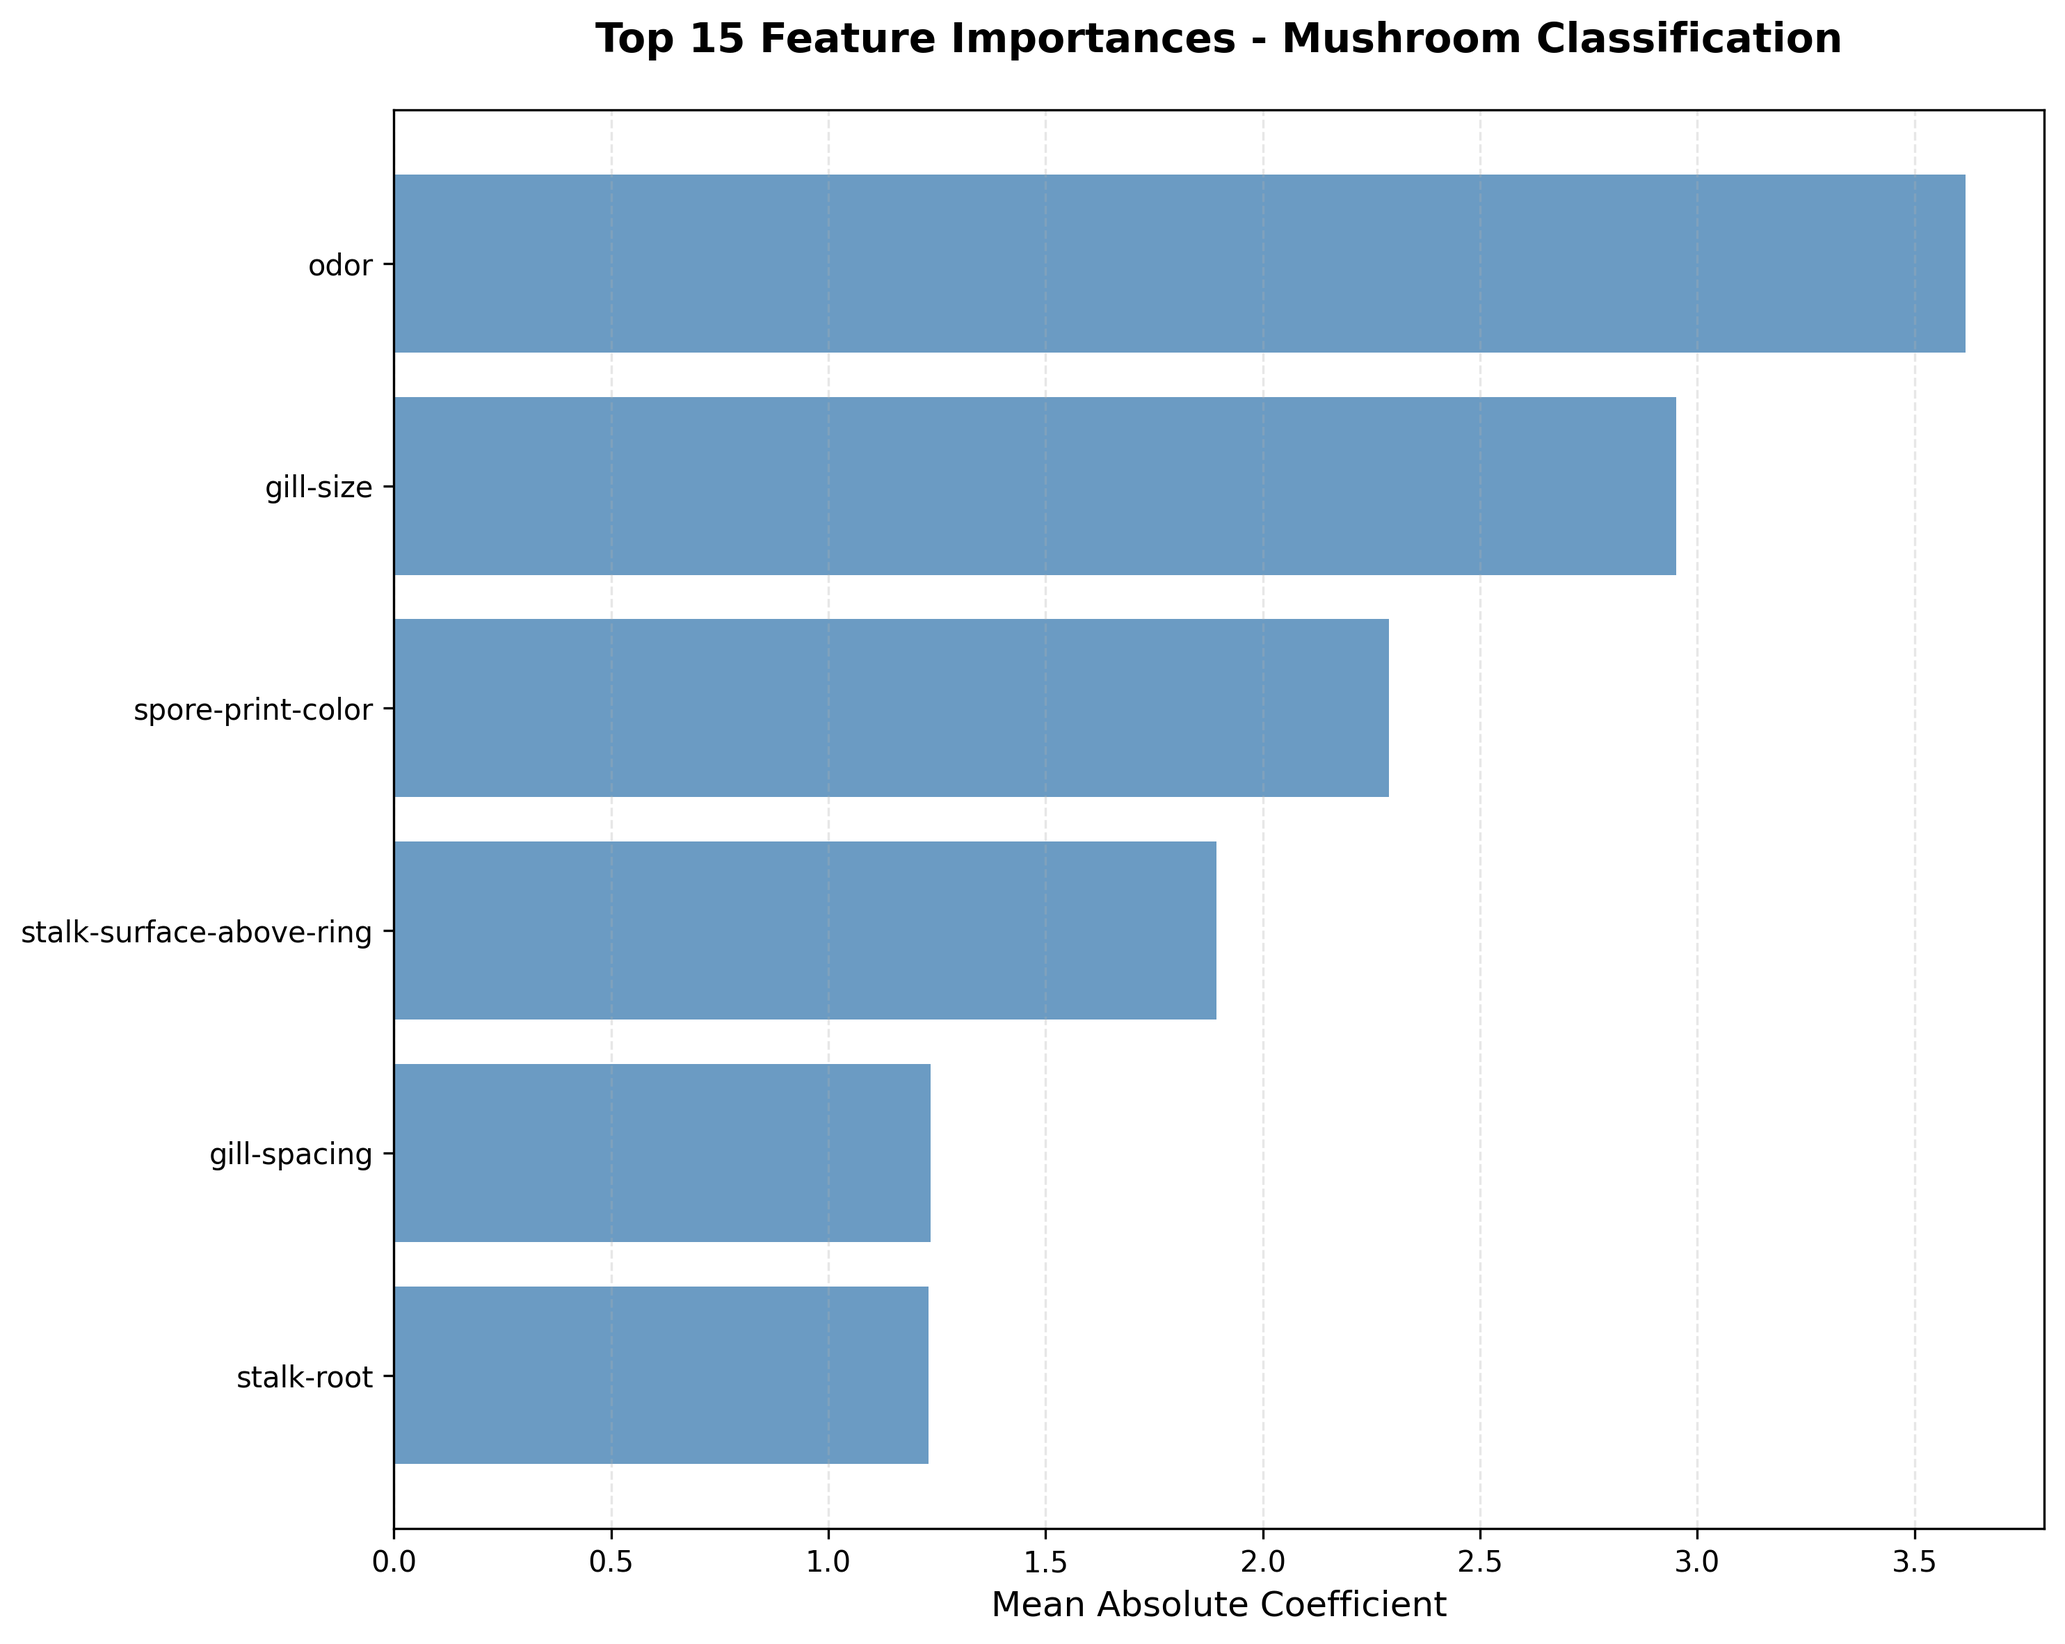
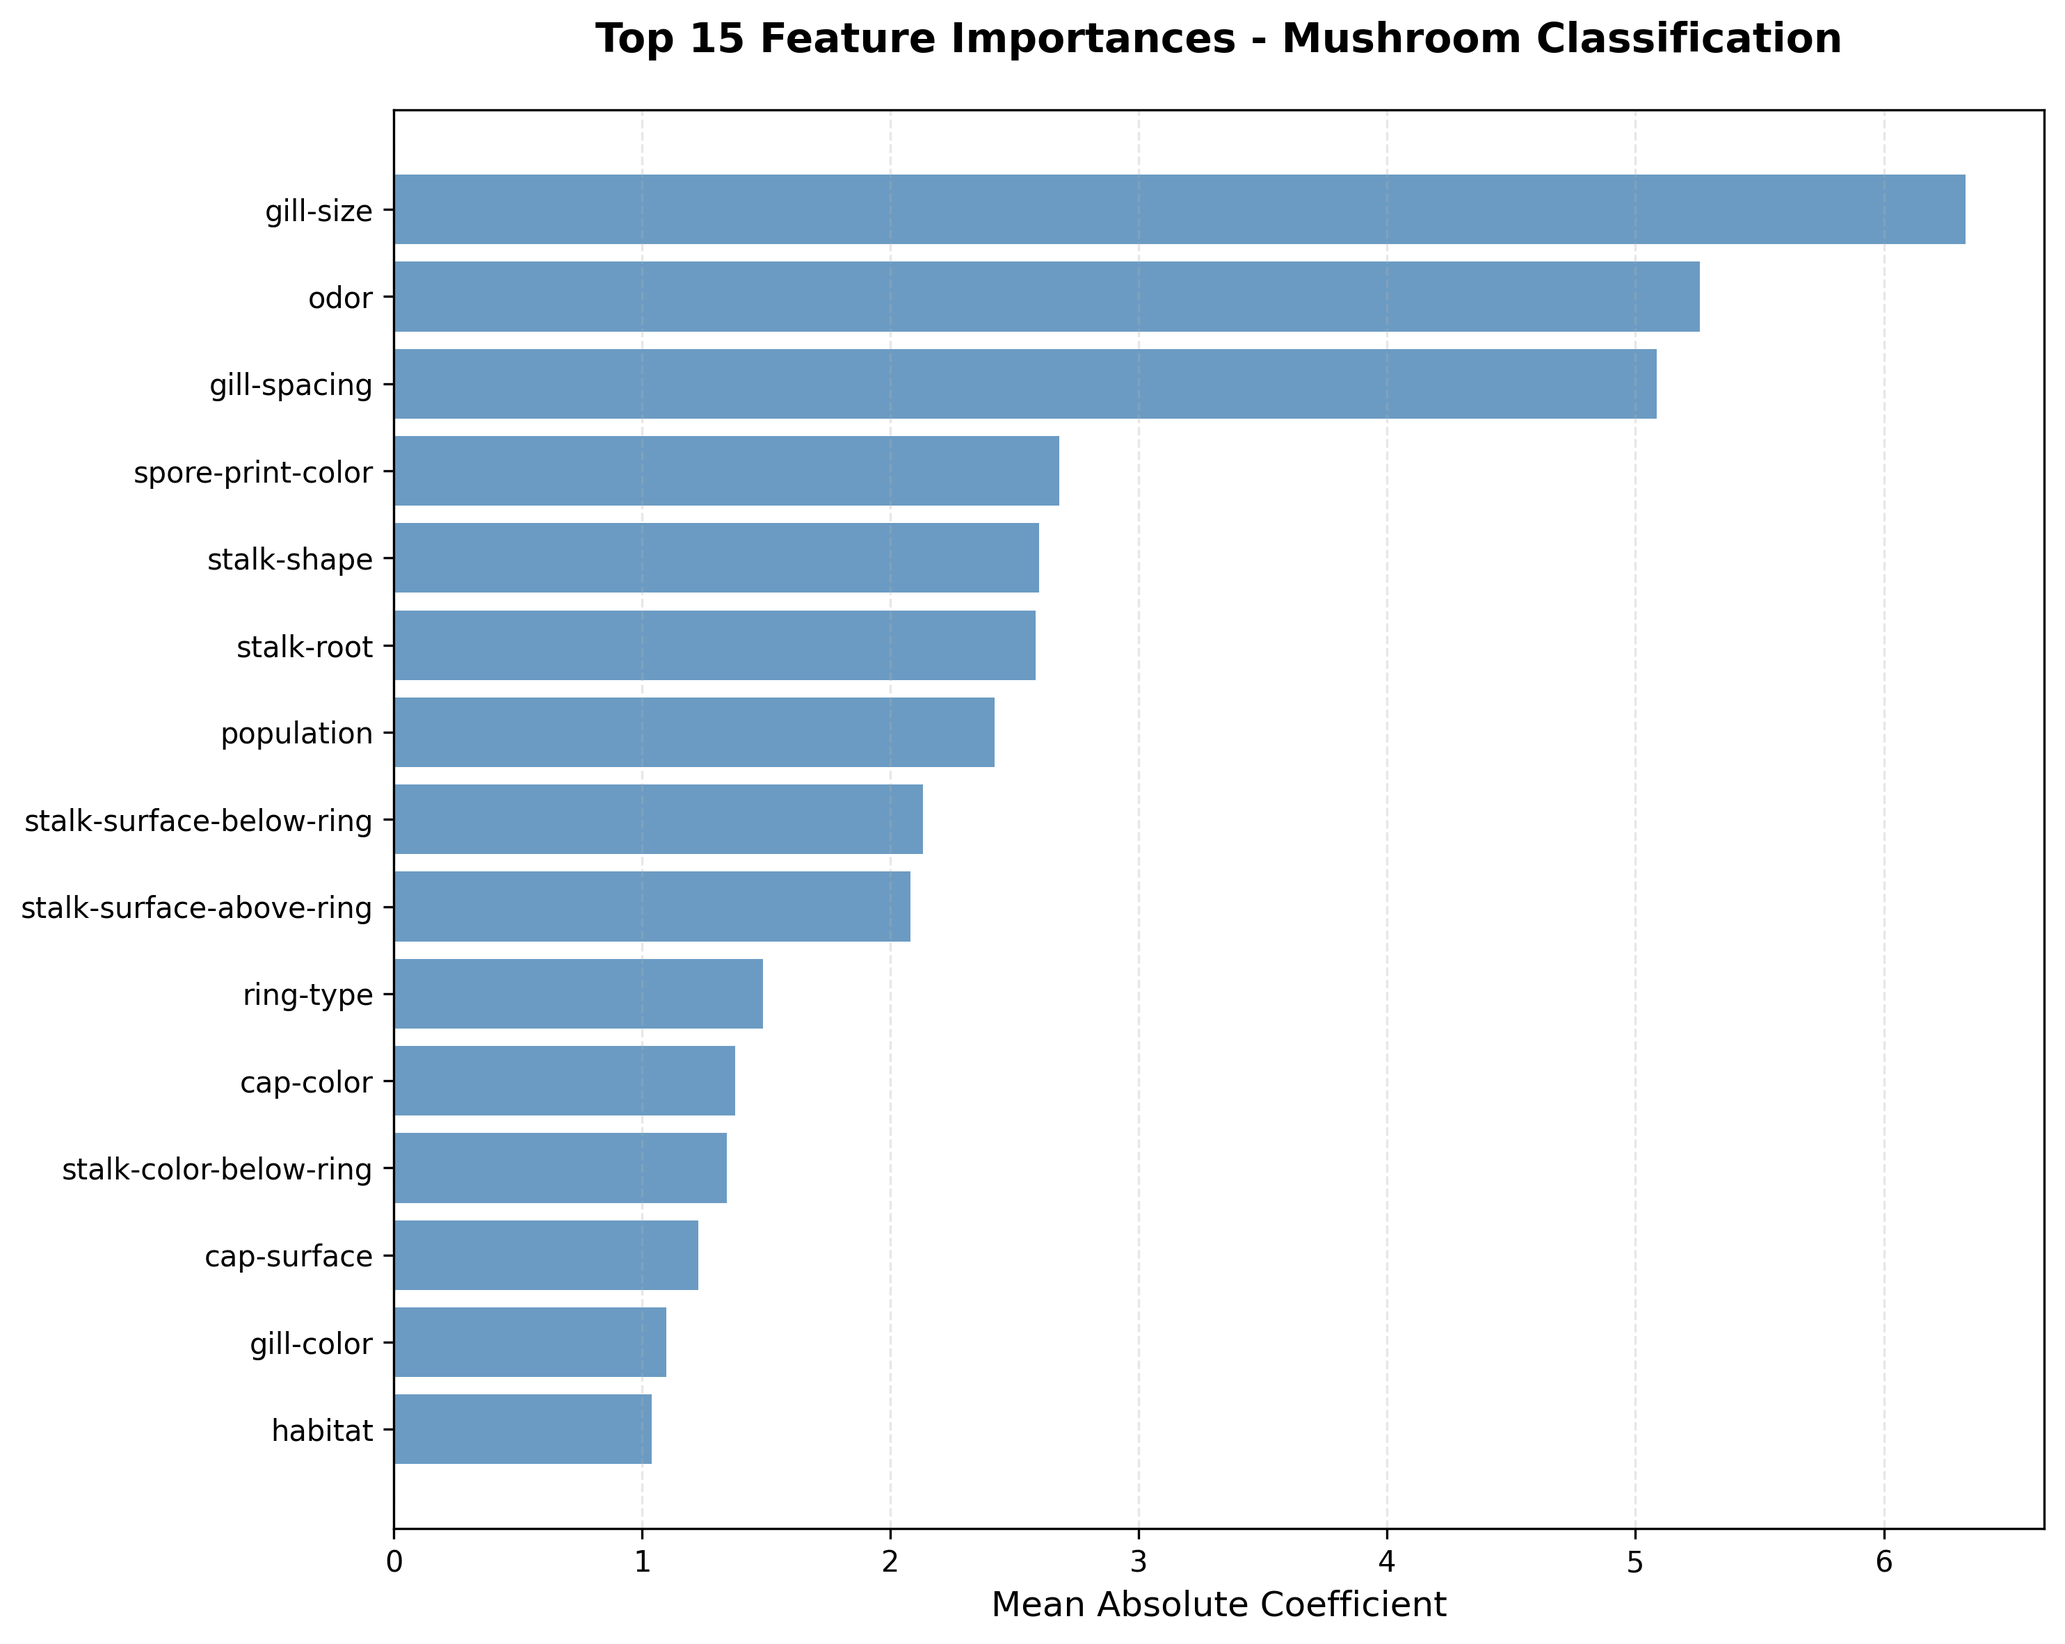
Add visualization script for Mushroom Dataset
- Fetch and load the mushroom dataset from UCI repository.
- Visualize class distribution of edible vs poisonous mushrooms.
- Create count plots for selected categorical features against class.
- Generate a correlation heatmap for features related to being poisonous.
- Save all visualizations to 'data_exploration' directory.

diff --git a/app.py b/app.py
@@ -1,7 +1,177 @@
 import gradio as gr
+import pickle
+import pandas as pd
+from pathlib import Path
 
-def greet(name):
-    return "Hello " + name + "!!"
+# Load the trained model and preprocessor
+model_path = Path(__file__).parent / 'mushroom_model.pkl'
+preprocessor_path = Path(__file__).parent / 'mushroom_preprocessor.pkl'
+feature_names_path = Path(__file__).parent / 'mushroom_features.pkl'
 
-demo = gr.Interface(fn=greet, inputs="text", outputs="text")
-demo.launch()
+try:
+    with open(model_path, 'rb') as f:
+        model = pickle.load(f)
+    with open(preprocessor_path, 'rb') as f:
+        preprocessor = pickle.load(f)
+    with open(feature_names_path, 'rb') as f:
+        feature_names = pickle.load(f)
+    print("Model loaded successfully!")
+except FileNotFoundError:
+    print(f"Model files not found. Please run train_mushroom_model.py first.")
+    model = None
+    preprocessor = None
+    feature_names = None
+
+# Define feature options based on the dataset
+feature_options = {
+    # 'cap-shape': ['b (bell)', 'c (conical)', 'x (convex)', 'f (flat)', 'k (knobbed)', 's (sunken)'],
+    # 'cap-surface': ['f (fibrous)', 'g (grooves)', 'y (scaly)', 's (smooth)'],
+    # 'cap-color': ['n (brown)', 'b (buff)', 'c (cinnamon)', 'g (gray)', 'r (green)', 'p (pink)', 
+                #   'u (purple)', 'e (red)', 'w (white)', 'y (yellow)'],
+    # 'bruises': ['t (bruises)', 'f (no)'],
+    'odor': ['a (almond)', 'l (anise)', 'c (creosote)', 'y (fishy)', 'f (foul)', 
+             'm (musty)', 'n (none)', 'p (pungent)', 's (spicy)'],
+    # 'gill-attachment': ['a (attached)', 'f (free)'],
+    'gill-spacing': ['c (close)', 'w (crowded)'],
+    'gill-size': ['b (broad)', 'n (narrow)'],
+    # 'gill-color': ['k (black)', 'n (brown)', 'b (buff)', 'h (chocolate)', 'g (gray)', 'r (green)',
+    #                'o (orange)', 'p (pink)', 'u (purple)', 'e (red)', 'w (white)', 'y (yellow)'],
+    # 'stalk-shape': ['e (enlarging)', 't (tapering)'],
+    'stalk-root': ['b (bulbous)', 'c (club)', 'e (equal)', 'r (rooted)'],
+    'stalk-surface-above-ring': ['f (fibrous)', 'y (scaly)', 'k (silky)', 's (smooth)'],
+    # 'stalk-surface-below-ring': ['f (fibrous)', 'y (scaly)', 'k (silky)', 's (smooth)'],
+    # 'stalk-color-above-ring': ['n (brown)', 'b (buff)', 'c (cinnamon)', 'g (gray)', 'o (orange)',
+    #                             'p (pink)', 'e (red)', 'w (white)', 'y (yellow)'],
+    # 'stalk-color-below-ring': ['n (brown)', 'b (buff)', 'c (cinnamon)', 'g (gray)', 'o (orange)',
+    #                             'p (pink)', 'e (red)', 'w (white)', 'y (yellow)'],
+    # 'veil-type': ['p (partial)'],
+    # 'veil-color': ['n (brown)', 'o (orange)', 'w (white)', 'y (yellow)'],
+    # 'ring-number': ['n (none)', 'o (one)', 't (two)'],
+    # 'ring-type': ['e (evanescent)', 'f (flaring)', 'l (large)', 'n (none)', 'p (pendant)'],
+    'spore-print-color': ['k (black)', 'n (brown)', 'b (buff)', 'h (chocolate)', 'r (green)',
+                          'o (orange)', 'u (purple)', 'w (white)', 'y (yellow)'],
+    # 'population': ['a (abundant)', 'c (clustered)', 'n (numerous)', 's (scattered)',
+    #                'v (several)', 'y (solitary)'],
+    # 'habitat': ['g (grasses)', 'l (leaves)', 'm (meadows)', 'p (paths)', 'u (urban)', 
+    #             'w (waste)', 'd (woods)']
+}
+
+# def predict_mushroom(cap_shape, cap_surface, cap_color, bruises, odor, gill_attachment,
+#                     gill_spacing, gill_size, gill_color, stalk_shape, stalk_root,
+#                     stalk_surface_above_ring, stalk_surface_below_ring, 
+#                     stalk_color_above_ring, stalk_color_below_ring, veil_type,
+#                     veil_color, ring_number, ring_type, spore_print_color,
+#                     population, habitat):
+def predict_mushroom(odor, 
+                    gill_spacing, gill_size,stalk_shape,
+                    stalk_surface_above_ring, spore_print_color):
+
+    """
+    Predict if mushroom is edible or poisonous based on input features
+    """
+    if model is None or preprocessor is None:
+        return "❌ **Error:** Model not loaded. Please run `train_mushroom_model.py` first."
+    
+    # Extract the single letter code from the selection (format: "x (description)")
+    def extract_code(value):
+        return value.split(' ')[0] if value else value
+    
+    # Create input dataframe with proper feature names
+    input_data = pd.DataFrame([[
+        # extract_code(cap_shape),
+        # extract_code(cap_surface),
+        # extract_code(cap_color),
+        # extract_code(bruises),
+        extract_code(odor),
+        # extract_code(gill_attachment),
+        extract_code(gill_spacing),
+        extract_code(gill_size),
+        # extract_code(gill_color),
+        extract_code(stalk_shape),
+        # extract_code(stalk_root),
+        extract_code(stalk_surface_above_ring),
+        # extract_code(stalk_surface_below_ring),
+        # extract_code(stalk_color_above_ring),
+        # extract_code(stalk_color_below_ring),
+        # extract_code(veil_type),
+        # extract_code(veil_color),
+        # extract_code(ring_number),
+        # extract_code(ring_type),
+        extract_code(spore_print_color),
+        # extract_code(population),
+        # extract_code(habitat)
+    ]], columns=feature_names)
+    
+    # Preprocess and predict
+    input_encoded = preprocessor.transform(input_data)
+    prediction = model.predict(input_encoded)[0]
+    probabilty = model.predict_proba(input_encoded)[0]
+    
+    # Format the result
+    if prediction == 'e':
+        result = f"""
+        
+        # 🍄 ✅ **EDIBLE**
+        
+        ### The mushroom is predicted to be **EDIBLE** with a probability of {probabilty[0]:.2f}
+        
+        ⚠ **Important Disclaimer:** This is a machine learning prediction and should NOT be used as the sole 
+        basis for consuming wild mushrooms. Always consult with a mycology expert before consuming any wild mushroom.
+        """
+        color = "green"
+    else:
+        result = f"""
+        # ☠ ⚠ **POISONOUS**
+        
+        ### The mushroom is predicted to be **POISONOUS** with a probability of {probabilty[1]:.2f}
+        
+        🚨 **DO NOT EAT** this mushroom based on these characteristics!
+        """
+        color = "red"
+    
+    return result
+
+# Create Gradio interface with all 22 features
+demo = gr.Interface(
+    fn=predict_mushroom,
+    inputs=[
+        # gr.Dropdown(choices=feature_options['cap-shape'], label="Cap Shape", value='x (convex)'),
+        # gr.Dropdown(choices=feature_options['cap-surface'], label="Cap Surface", value='s (smooth)'),
+        # gr.Dropdown(choices=feature_options['cap-color'], label="Cap Color", value='n (brown)'),
+        # gr.Dropdown(choices=feature_options['bruises'], label="Bruises", value='t (bruises)'),
+        gr.Dropdown(choices=feature_options['odor'], label="Odor", value='n (none)'),
+        # gr.Dropdown(choices=feature_options['gill-attachment'], label="Gill Attachment", value='f (free)'),
+        gr.Dropdown(choices=feature_options['gill-spacing'], label="Gill Spacing", value='c (close)'),
+        gr.Dropdown(choices=feature_options['gill-size'], label="Gill Size", value='n (narrow)'),
+        # gr.Dropdown(choices=feature_options['gill-color'], label="Gill Color", value='k (black)'),
+        # gr.Dropdown(choices=feature_options['stalk-shape'], label="Stalk Shape", value='e (enlarging)'),
+        gr.Dropdown(choices=feature_options['stalk-root'], label="Stalk Root", value='e (equal)'),
+        gr.Dropdown(choices=feature_options['stalk-surface-above-ring'], label="Stalk Surface Above Ring", value='s (smooth)'),
+        # gr.Dropdown(choices=feature_options['stalk-surface-below-ring'], label="Stalk Surface Below Ring", value='s (smooth)'),
+        # gr.Dropdown(choices=feature_options['stalk-color-above-ring'], label="Stalk Color Above Ring", value='w (white)'),
+        # gr.Dropdown(choices=feature_options['stalk-color-below-ring'], label="Stalk Color Below Ring", value='w (white)'),
+        # gr.Dropdown(choices=feature_options['veil-type'], label="Veil Type", value='p (partial)'),
+        # gr.Dropdown(choices=feature_options['veil-color'], label="Veil Color", value='w (white)'),
+        # gr.Dropdown(choices=feature_options['ring-number'], label="Ring Number", value='o (one)'),
+        # gr.Dropdown(choices=feature_options['ring-type'], label="Ring Type", value='p (pendant)'),
+        gr.Dropdown(choices=feature_options['spore-print-color'], label="Spore Print Color", value='k (black)'),
+        # gr.Dropdown(choices=feature_options['population'], label="Population", value='s (scattered)'),
+        # gr.Dropdown(choices=feature_options['habitat'], label="Habitat", value='u (urban)'),
+    ],
+    outputs=gr.Markdown(label="Prediction Result"),
+    title="🍄 Mushroom Edibility Classifier",
+    description="""
+    ### Predict if a mushroom is edible or poisonous based on its characteristics
+    
+    This classifier uses a trained RandomForestClassifier model on the UCI Mushroom dataset.
+    Select the characteristics of the mushroom you want to classify.
+    
+    **⚠ WARNING:** This is for educational purposes only. Never consume wild mushrooms based solely on machine learning predictions!
+    
+    **Note:** If you see an error, please run `python train_mushroom_model.py` first to train the model.
+    """,
+    theme=gr.themes.Base(),
+)
+
+if __name__ == "__main__":
+    demo.launch(share=False)

diff --git a/visulization.py b/visulization.py
@@ -1,0 +1,77 @@
+# -*- coding: utf-8 -*-
+"""
+Visualize the Mushroom Dataset
+Shows distributions and relationships between features and classes
+"""
+
+import pandas as pd
+import matplotlib.pyplot as plt
+import seaborn as sns
+from ucimlrepo import fetch_ucirepo
+
+# -----------------------------------------------------------
+# Load dataset
+# -----------------------------------------------------------
+print("Fetching mushroom dataset...")
+mushroom = fetch_ucirepo(id=73)
+
+X = mushroom.data.features
+y = mushroom.data.targets.squeeze()  # Convert to Series
+df = X.copy()
+df['class'] = y  # Add target column ('e' or 'p')
+
+print(f"Dataset loaded successfully with {len(df)} samples and {len(df.columns)} columns.")
+print(f"\nClass distribution:\n{df['class'].value_counts()}")
+
+# -----------------------------------------------------------
+# Basic class distribution (edible vs poisonous)
+# -----------------------------------------------------------
+plt.figure(figsize=(6, 4))
+sns.countplot(data=df, x='class', palette='coolwarm')
+plt.title('Distribution of Edible vs Poisonous Mushrooms', fontsize=14, fontweight='bold')
+plt.xlabel('Mushroom Type')
+plt.ylabel('Count')
+plt.xticks([0, 1], ['Edible (e)', 'Poisonous (p)'])
+plt.tight_layout()
+plt.savefig('data_exploration/class_distribution.png', dpi=300)
+print("✓ Saved class distribution plot: class_distribution.png")
+plt.close()
+
+# -----------------------------------------------------------
+# Visualize selected categorical features
+# -----------------------------------------------------------
+selected_features = ['odor', 'gill-size', 'gill-spacing', 'stalk-surface-above-ring', 'spore-print-color', 'stalk-root']
+
+for feature in selected_features:
+    plt.figure(figsize=(8, 4))
+    sns.countplot(data=df, x=feature, hue='class', palette='coolwarm')
+    plt.title(f"{feature.capitalize()} vs Class", fontsize=13, fontweight='bold')
+    plt.xlabel(feature.replace('-', ' ').capitalize())
+    plt.ylabel('Count')
+    plt.legend(title='Class', labels=['Edible (e)', 'Poisonous (p)'])
+    plt.xticks(rotation=30)
+    plt.tight_layout()
+    filename = f"feature_{feature}.png"
+    plt.savefig(f'data_exploration/{filename}', dpi=300)
+    print(f"✓ Saved feature plot: {filename}")
+    plt.close()
+
+# -----------------------------------------------------------
+# Correlation heatmap (based on one-hot encoding)
+# -----------------------------------------------------------
+print("\nCreating correlation heatmap...")
+
+# One-hot encode categorical data for correlation analysis
+df_encoded = pd.get_dummies(df, drop_first=True)
+
+# Compute correlation with the target ('class_p' = poisonous)
+corr = df_encoded.corr()['class_p'].sort_values(ascending=False)
+
+plt.figure(figsize=(6, 10))
+sns.heatmap(corr.to_frame(), annot=False, cmap='coolwarm', cbar=True)
+plt.title('Feature Correlation with Being Poisonous', fontsize=14, fontweight='bold')
+plt.tight_layout()
+plt.savefig('data_exploration/feature_correlation_heatmap.png', dpi=300)
+print("✓ Saved feature correlation heatmap: feature_correlation_heatmap.png")
+
+print("\nVisualization completed successfully!")

diff --git a/test_mushroom_model.py b/test_mushroom_model.py
@@ -43,7 +43,7 @@ def prepare_test_data():
     mushroom = fetch_ucirepo(id=73)
     
     X = mushroom.data.features
-    X = X[['gill-size', 'odor', 'gill-spacing', 'stalk-surface-above-ring', 'spore-print-color', 'stalk-root']]
+    # X = X[['gill-size', 'odor', 'gill-spacing', 'stalk-surface-above-ring', 'spore-print-color', 'stalk-root']]
     y = mushroom.data.targets.squeeze()
     
     # Use the same split as training to get the same test set

diff --git a/train_mushroom_model.py b/train_mushroom_model.py
@@ -20,7 +20,7 @@ mushroom = fetch_ucirepo(id=73)
 
 # Data (as pandas dataframes)
 X = mushroom.data.features
-X = X[['gill-size', 'odor', 'gill-spacing', 'stalk-surface-above-ring', 'spore-print-color', 'stalk-root']]
+# X = X[['gill-size', 'odor', 'gill-spacing', 'stalk-surface-above-ring', 'spore-print-color', 'stalk-root']]
 y = mushroom.data.targets.squeeze()  # Ensure y is 1D
 
 # Split the data into training and testing sets
